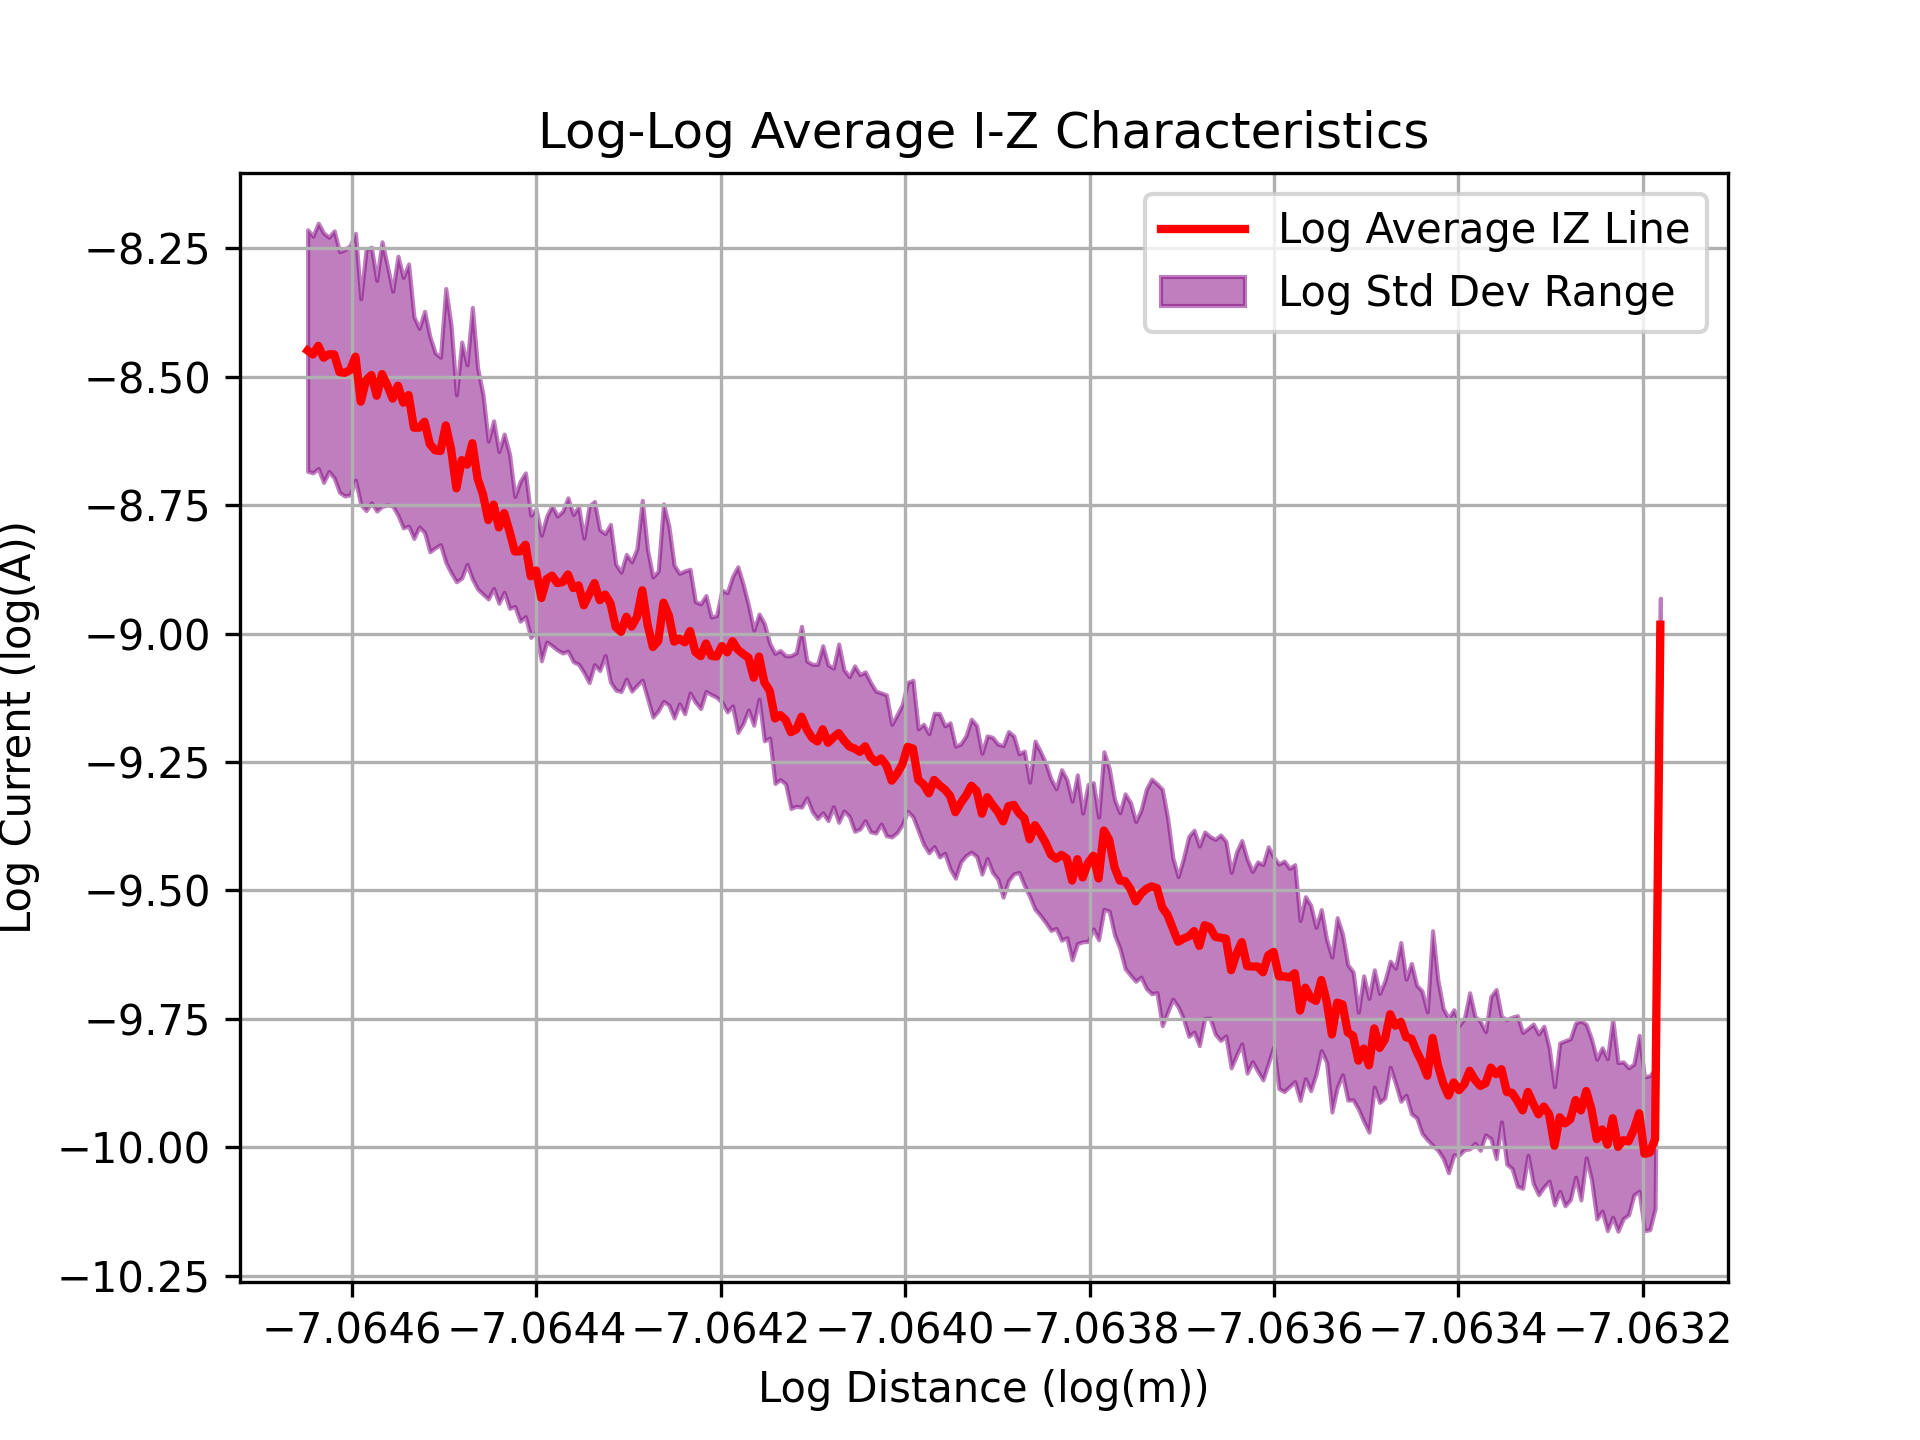
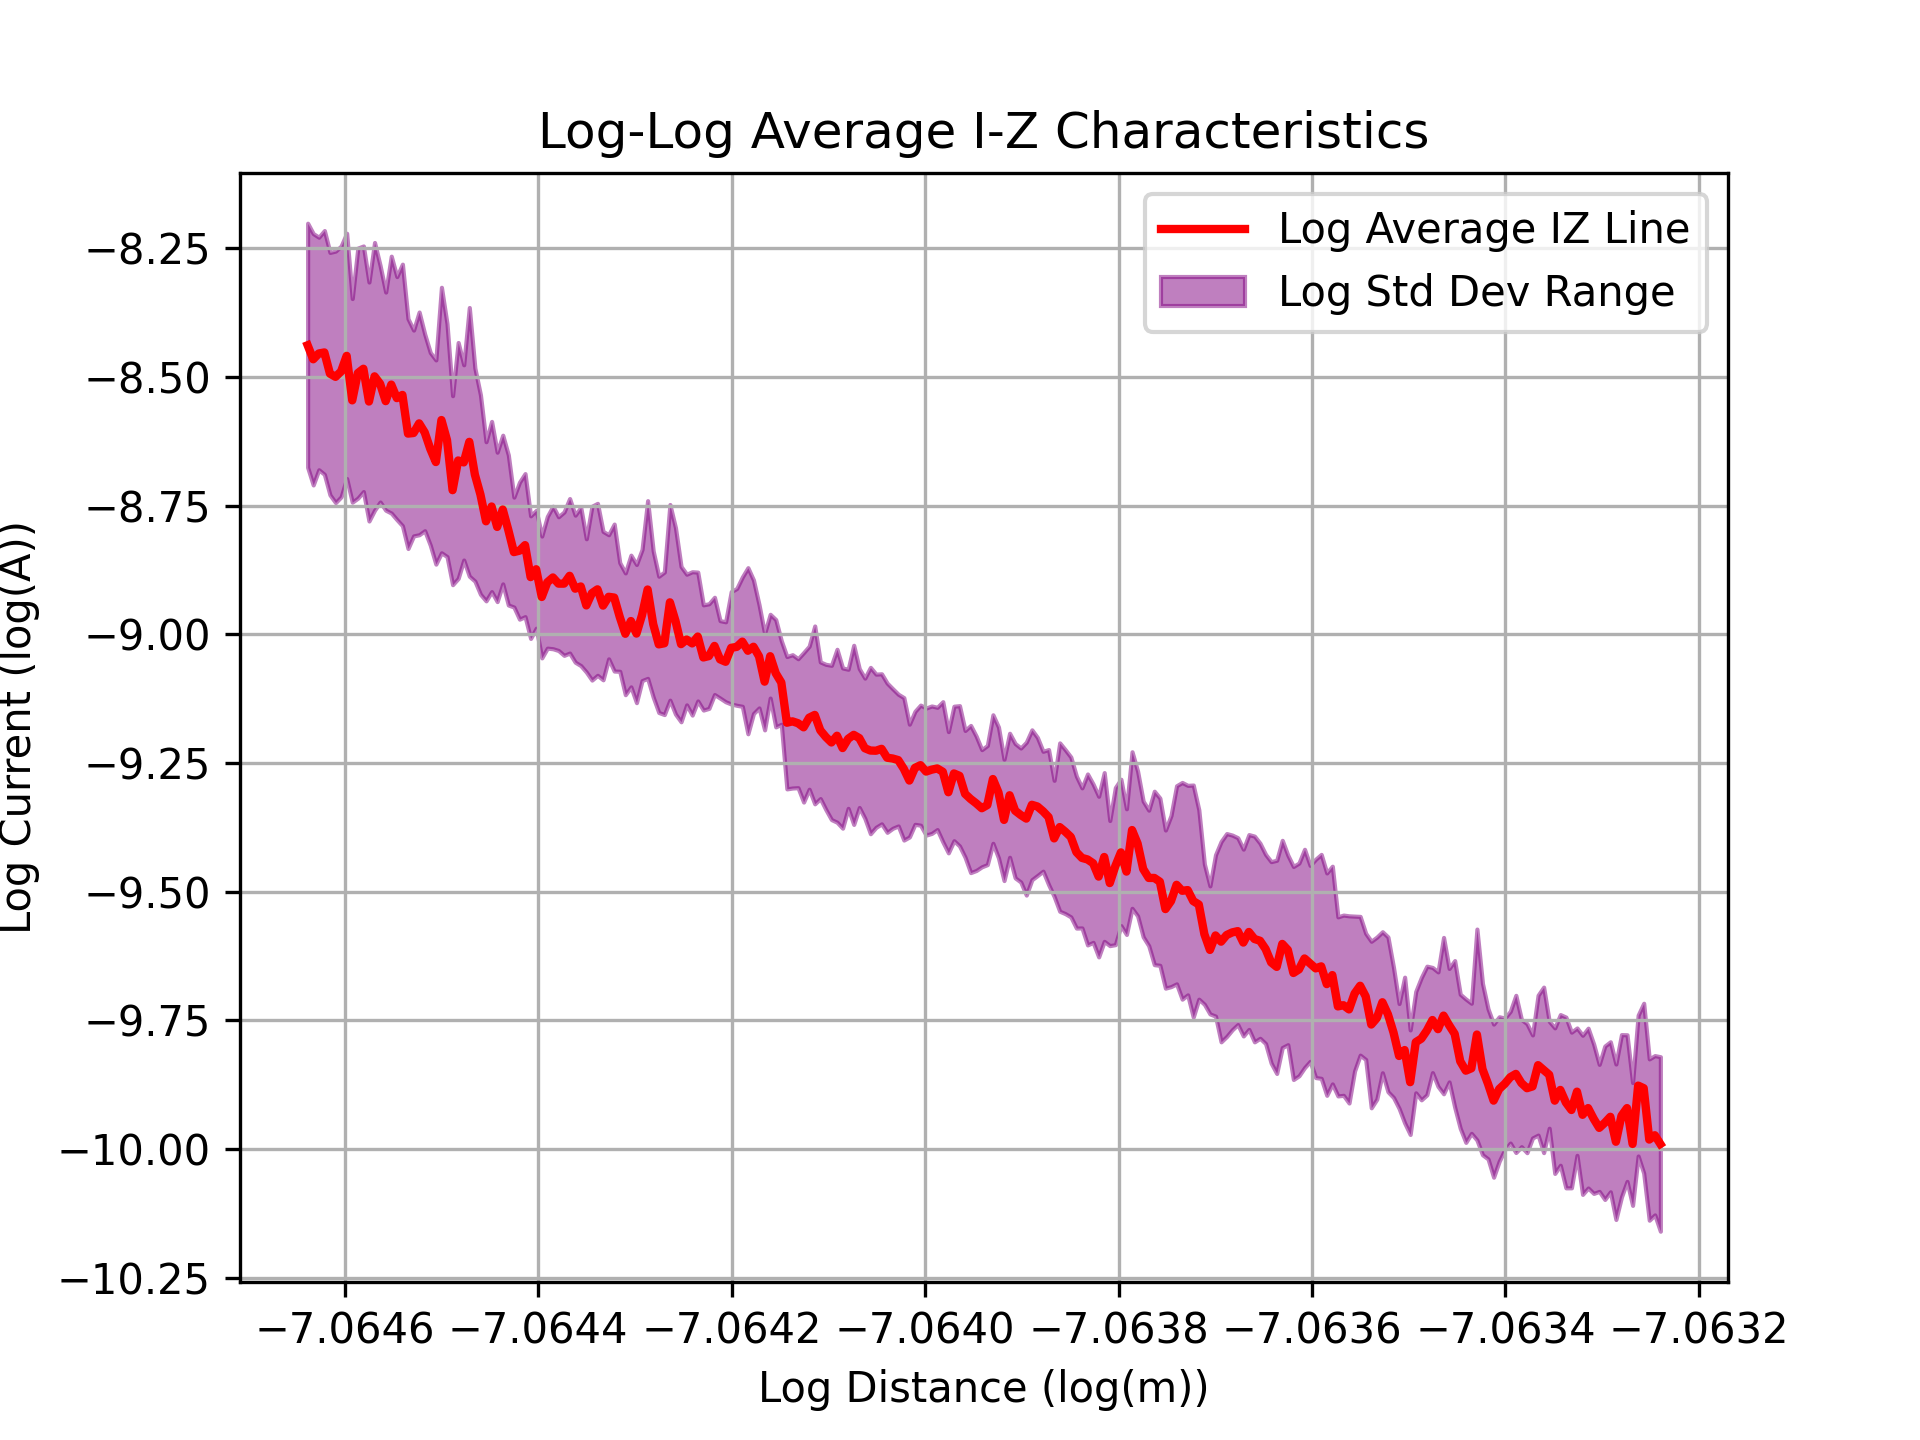
filtered some outliers for IZ gold spectra

diff --git a/IVSpecGold.py b/IVSpecGold.py
@@ -49,8 +49,8 @@ plt.figure(figsize=(10, 6))
 plt.plot(average_V, average_I, label='Average I-V Curve')
 plt.plot(average_V, fitted_I, label=f'Linear Fit', color='r')
 plt.fill_between(average_V, average_I - std_I, average_I + std_I, color='b', alpha=0.2, label='Standard Deviation')
-plt.xlabel('Voltage (V)')
-plt.ylabel('Current (I)')
+plt.xlabel('Tip Voltage (V)')
+plt.ylabel('Tip Current (A)')
 plt.title('Average I-V Curve with Error Bars')
 plt.legend()
 plt.grid(True)
@@ -71,8 +71,8 @@ plt.figure(figsize=(10, 6))
 plt.plot(average_V, dIdV_over_IoverV, label='Derivative of Linear Fit', color='g')
 plt.fill_between(average_V, dIdV_over_IoverV - std_dIdV_over_IoverV, dIdV_over_IoverV + std_dIdV_over_IoverV, color='g', alpha=0.2, label='Standard Deviation')
 plt.xlabel('Voltage (V)')
-plt.ylabel('dI/dV')
-plt.title('Derivative of Linear Fit with Error Bars')
+plt.ylabel('dln(I)/dln(V)')
+plt.title('Derivative of Linear Fit/(I-V ratio) with Error Bars')
 plt.legend()
 plt.grid(True)
 plt.savefig('Produced_Plots/Gold/IV_Gold.png',dpi=300)
@@ -82,7 +82,7 @@ plt.figure(figsize=(10, 6))
 plt.plot(average_V, dIdV_over_IoverV, label='Derivative of Linear Fit', color='g')
 plt.fill_between(average_V, dIdV_over_IoverV - std_dIdV_over_IoverV, dIdV_over_IoverV + std_dIdV_over_IoverV, color='g', alpha=0.2, label='Standard Deviation')
 plt.xlabel('Voltage (V)')
-plt.ylabel('dI/dV')
+plt.ylabel('dln(I)/dln(V)')
 plt.title('Derivative of Linear Fit with Error Bars (0.2 < V < 0.4)')
 plt.legend()
 plt.grid(True)

diff --git a/IZSpecImproved.py b/IZSpecImproved.py
@@ -3,7 +3,6 @@ import pandas as pd
 import numpy as np
 
 import matplotlib.pyplot as plt
-#directory = 'RawData/IZ_Lines' #uncomment this line and comment the next line to run the code for IZ_Lines
 directory = 'RawData/IZ_Gold'
 
 all_Z_values = []
@@ -39,15 +38,33 @@ all_Z_values = translated_Z_values_per_array
  # Plot the data
 
 plt.figure(figsize=(10, 6))
+plot_count = 1
 for Z_values, I_values in zip(all_Z_values, all_I_values):
-    plt.plot(Z_values, I_values, 'o', markersize=2, label='IZ Line')
+    plt.plot(Z_values, I_values, 'o', markersize=2, label=f'n={plot_count}')
+    plot_count += 1
 plt.xlabel('Distance (m)')
 plt.ylabel('Current (A)')
-plt.title('I-Z Characteristics')
+plt.title(f'Raw I-Z Data from {plot_count} spectra')
 plt.legend()
 plt.grid(True)
-plt.savefig('Produced_Plots/IZ_Lines.png',dpi=300)
+plt.savefig('Produced_Plots/Gold/IZ_Lines.png',dpi=300)
 plt.show()
+
+# Filter out the values for Z > -8.645e-06
+filtered_Z_values = []
+filtered_I_values = []
+for Z_values, I_values in zip(all_Z_values, all_I_values):
+    filtered_Z = []
+    filtered_I = []
+    for z, i in zip(Z_values, I_values):
+        if z >= -8.645e-08:
+            filtered_Z.append(z)
+            filtered_I.append(i)
+    filtered_Z_values.append(filtered_Z)
+    filtered_I_values.append(filtered_I)
+
+all_Z_values = filtered_Z_values
+all_I_values = filtered_I_values
 
 # Calculate the average I values for each Z value
 average_I_values = [sum(i) / len(i) for i in zip(*all_I_values)]
